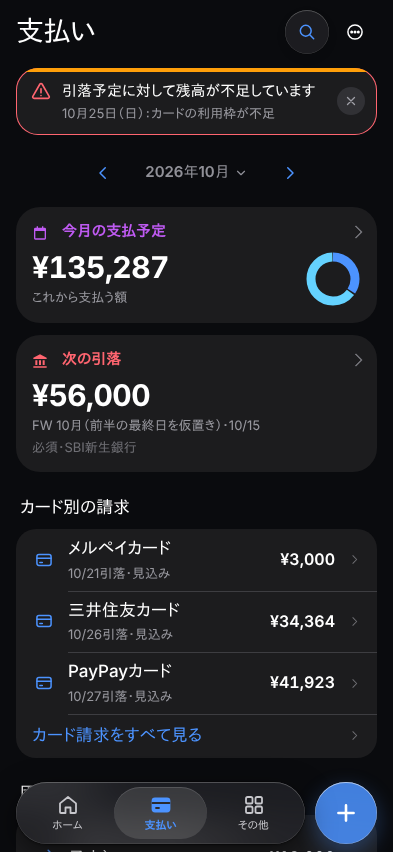
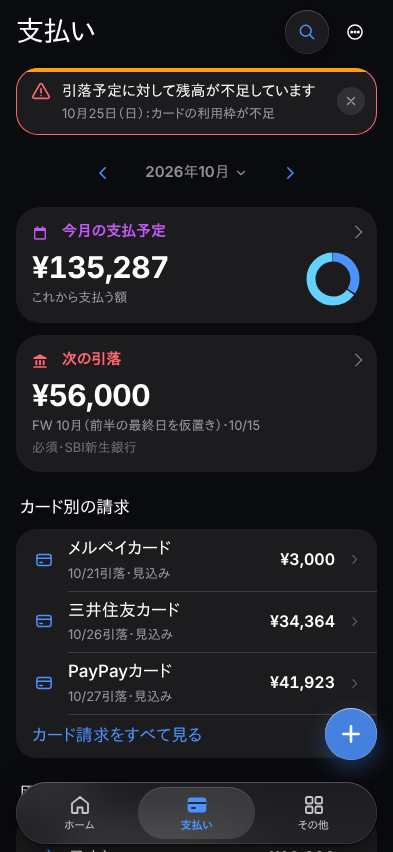
＋は第14版 Q-001（右下・タブの上・52pt）の位置と大きさに戻し、色つきガラスで仕上げる
Claude-Session: https://claude.ai/code/session_01QcLHSFmCgP6AMvjxwyHjWT

Changed region(s): [[0.7634, 0.8239, 0.9771, 1.0], [0.2748, 0.9155, 0.7023, 1.0], [0.1221, 0.9155, 0.2443, 0.9765]]

diff --git a/assets/app.80ddb2bad120.css b/assets/app.80ddb2bad120.css
@@ -2640,14 +2640,13 @@ html.dark {
 #app .screen { bottom: 0 }
 #app .screen > .scroll { padding-bottom: calc(var(--tab-h) + 28px); scroll-padding-bottom: calc(var(--tab-h) + 28px) }
 
-/* ---- タブバー: 浮いたカプセル。＋は右に並ぶ丸いガラス ---- */
+/* ---- タブバー: 浮いたカプセル。＋は第14版 Q-001 のとおり右下・タブの上の52ptの丸（色つきのガラス） ---- */
 .tabbar {
   left: max(16px, env(safe-area-inset-left));
-  right: calc(max(16px, env(safe-area-inset-right)) + var(--tabbar-height) + 10px);
+  right: max(16px, env(safe-area-inset-right));
   background: var(--lg-fill);
   box-shadow: inset 0 0 0 .5px var(--lg-stroke), inset 0 1px 0 var(--lg-stroke), 0 0 0 .5px var(--lg-rim), var(--lg-shadow);
 }
-#app:has(> #addHub[hidden]) .tabbar { right: max(16px, env(safe-area-inset-right)) }
 .tab-selection { background: rgba(120,120,128,.14); box-shadow: inset 0 1px 0 rgba(255,255,255,.7), inset 0 0 0 .5px rgba(255,255,255,.4) }
 html.dark .tab-selection { background: rgba(255,255,255,.12); box-shadow: inset 0 1px 0 rgba(255,255,255,.14) }
 .tabbar.tab-dragging .tab-selection { scale: 1.08; background: rgba(255,255,255,.55); box-shadow: inset 0 0 0 .5px rgba(255,255,255,.9), 0 6px 18px rgba(0,0,0,.12) }
@@ -2655,9 +2654,9 @@ html.dark .tabbar.tab-dragging .tab-selection { background: rgba(255,255,255,.2)
 
 .add-hub {
   right: max(16px, env(safe-area-inset-right));
-  bottom: var(--tabbar-bottom);
-  width: var(--tabbar-height);
-  height: var(--tabbar-height);
+  bottom: calc(var(--tab-h) + 12px);
+  width: 52px;
+  height: 52px;
   background: var(--lg-tint);
   box-shadow: inset 0 1px 0 rgba(255,255,255,.45), inset 0 0 0 .5px rgba(255,255,255,.35), 0 8px 22px color-mix(in srgb, var(--accent) 32%, transparent), 0 1px 3px rgba(0,0,0,.12);
   transition: transform 180ms var(--spring), box-shadow 180ms ease-out;
@@ -2794,10 +2793,10 @@ html.dark .home-card-wrap > .home-card { box-shadow: none }
 .sk-card .sk-ring { grid-row: 2 / span 2; grid-column: 2; width: 52px; height: 52px; border-radius: 50%; border: 9px solid var(--sk-base); border-top-color: color-mix(in srgb, var(--sk-c, var(--accent)) 45%, transparent) }
 .sk { display: block; background: var(--sk-base); background-image: linear-gradient(100deg, transparent 20%, var(--sk-shine) 50%, transparent 80%); background-size: 220% 100%; background-repeat: no-repeat; animation: skeletonShimmer 1.4s ease-in-out infinite }
 @keyframes skeletonShimmer { from { background-position: 160% 0 } to { background-position: -60% 0 } }
-.boot-tabbar { position: fixed; left: 16px; right: calc(16px + var(--tabbar-height) + 10px); bottom: var(--tabbar-bottom); height: var(--tabbar-height); border-radius: 999px; background: var(--lg-fill); box-shadow: inset 0 0 0 .5px var(--lg-stroke), 0 0 0 .5px var(--lg-rim), var(--lg-shadow); display: flex; align-items: center; justify-content: space-around; -webkit-backdrop-filter: var(--lg-blur); backdrop-filter: var(--lg-blur) }
+.boot-tabbar { position: fixed; left: 16px; right: 16px; bottom: var(--tabbar-bottom); height: var(--tabbar-height); border-radius: 999px; background: var(--lg-fill); box-shadow: inset 0 0 0 .5px var(--lg-stroke), 0 0 0 .5px var(--lg-rim), var(--lg-shadow); display: flex; align-items: center; justify-content: space-around; -webkit-backdrop-filter: var(--lg-blur); backdrop-filter: var(--lg-blur) }
 .boot-tabbar i { width: 24px; height: 24px; border-radius: 7px; background: var(--sk-base) }
-.boot-hub { position: fixed; right: 16px; bottom: var(--tabbar-bottom); width: var(--tabbar-height); height: var(--tabbar-height); border-radius: 50%; background: var(--lg-tint); opacity: .55 }
-.boot-status { position: fixed; left: 50%; bottom: calc(var(--tab-h) + 18px); transform: translateX(-50%); display: flex; align-items: center; gap: 12px; max-width: calc(100% - 32px); padding: 10px 18px 10px 14px; border-radius: 999px; background: var(--lg-fill-strong); box-shadow: inset 0 0 0 .5px var(--lg-stroke), 0 0 0 .5px var(--lg-rim), var(--lg-shadow); -webkit-backdrop-filter: var(--lg-blur); backdrop-filter: var(--lg-blur); animation: bootStatusIn .3s var(--spring) both }
+.boot-hub { position: fixed; right: 16px; bottom: calc(var(--tab-h) + 12px); width: 52px; height: 52px; border-radius: 50%; background: var(--lg-tint); opacity: .55 }
+.boot-status { position: fixed; left: 50%; bottom: calc(var(--tab-h) + 80px); transform: translateX(-50%); display: flex; align-items: center; gap: 12px; max-width: calc(100% - 32px); padding: 10px 18px 10px 14px; border-radius: 999px; background: var(--lg-fill-strong); box-shadow: inset 0 0 0 .5px var(--lg-stroke), 0 0 0 .5px var(--lg-rim), var(--lg-shadow); -webkit-backdrop-filter: var(--lg-blur); backdrop-filter: var(--lg-blur); animation: bootStatusIn .3s var(--spring) both }
 .boot-status { width: max-content }
 .boot-status .busy-title { font-size: 14px; font-weight: 600; line-height: 1.35; white-space: nowrap }
 .boot-status .busy-sub { white-space: nowrap; overflow: hidden; text-overflow: ellipsis }

diff --git a/src/css/liquid-glass.css b/src/css/liquid-glass.css
@@ -48,14 +48,13 @@ html.dark {
 #app .screen { bottom: 0 }
 #app .screen > .scroll { padding-bottom: calc(var(--tab-h) + 28px); scroll-padding-bottom: calc(var(--tab-h) + 28px) }
 
-/* ---- タブバー: 浮いたカプセル。＋は右に並ぶ丸いガラス ---- */
+/* ---- タブバー: 浮いたカプセル。＋は第14版 Q-001 のとおり右下・タブの上の52ptの丸（色つきのガラス） ---- */
 .tabbar {
   left: max(16px, env(safe-area-inset-left));
-  right: calc(max(16px, env(safe-area-inset-right)) + var(--tabbar-height) + 10px);
+  right: max(16px, env(safe-area-inset-right));
   background: var(--lg-fill);
   box-shadow: inset 0 0 0 .5px var(--lg-stroke), inset 0 1px 0 var(--lg-stroke), 0 0 0 .5px var(--lg-rim), var(--lg-shadow);
 }
-#app:has(> #addHub[hidden]) .tabbar { right: max(16px, env(safe-area-inset-right)) }
 .tab-selection { background: rgba(120,120,128,.14); box-shadow: inset 0 1px 0 rgba(255,255,255,.7), inset 0 0 0 .5px rgba(255,255,255,.4) }
 html.dark .tab-selection { background: rgba(255,255,255,.12); box-shadow: inset 0 1px 0 rgba(255,255,255,.14) }
 .tabbar.tab-dragging .tab-selection { scale: 1.08; background: rgba(255,255,255,.55); box-shadow: inset 0 0 0 .5px rgba(255,255,255,.9), 0 6px 18px rgba(0,0,0,.12) }
@@ -63,9 +62,9 @@ html.dark .tabbar.tab-dragging .tab-selection { background: rgba(255,255,255,.2)
 
 .add-hub {
   right: max(16px, env(safe-area-inset-right));
-  bottom: var(--tabbar-bottom);
-  width: var(--tabbar-height);
-  height: var(--tabbar-height);
+  bottom: calc(var(--tab-h) + 12px);
+  width: 52px;
+  height: 52px;
   background: var(--lg-tint);
   box-shadow: inset 0 1px 0 rgba(255,255,255,.45), inset 0 0 0 .5px rgba(255,255,255,.35), 0 8px 22px color-mix(in srgb, var(--accent) 32%, transparent), 0 1px 3px rgba(0,0,0,.12);
   transition: transform 180ms var(--spring), box-shadow 180ms ease-out;
@@ -202,10 +201,10 @@ html.dark .home-card-wrap > .home-card { box-shadow: none }
 .sk-card .sk-ring { grid-row: 2 / span 2; grid-column: 2; width: 52px; height: 52px; border-radius: 50%; border: 9px solid var(--sk-base); border-top-color: color-mix(in srgb, var(--sk-c, var(--accent)) 45%, transparent) }
 .sk { display: block; background: var(--sk-base); background-image: linear-gradient(100deg, transparent 20%, var(--sk-shine) 50%, transparent 80%); background-size: 220% 100%; background-repeat: no-repeat; animation: skeletonShimmer 1.4s ease-in-out infinite }
 @keyframes skeletonShimmer { from { background-position: 160% 0 } to { background-position: -60% 0 } }
-.boot-tabbar { position: fixed; left: 16px; right: calc(16px + var(--tabbar-height) + 10px); bottom: var(--tabbar-bottom); height: var(--tabbar-height); border-radius: 999px; background: var(--lg-fill); box-shadow: inset 0 0 0 .5px var(--lg-stroke), 0 0 0 .5px var(--lg-rim), var(--lg-shadow); display: flex; align-items: center; justify-content: space-around; -webkit-backdrop-filter: var(--lg-blur); backdrop-filter: var(--lg-blur) }
+.boot-tabbar { position: fixed; left: 16px; right: 16px; bottom: var(--tabbar-bottom); height: var(--tabbar-height); border-radius: 999px; background: var(--lg-fill); box-shadow: inset 0 0 0 .5px var(--lg-stroke), 0 0 0 .5px var(--lg-rim), var(--lg-shadow); display: flex; align-items: center; justify-content: space-around; -webkit-backdrop-filter: var(--lg-blur); backdrop-filter: var(--lg-blur) }
 .boot-tabbar i { width: 24px; height: 24px; border-radius: 7px; background: var(--sk-base) }
-.boot-hub { position: fixed; right: 16px; bottom: var(--tabbar-bottom); width: var(--tabbar-height); height: var(--tabbar-height); border-radius: 50%; background: var(--lg-tint); opacity: .55 }
-.boot-status { position: fixed; left: 50%; bottom: calc(var(--tab-h) + 18px); transform: translateX(-50%); display: flex; align-items: center; gap: 12px; max-width: calc(100% - 32px); padding: 10px 18px 10px 14px; border-radius: 999px; background: var(--lg-fill-strong); box-shadow: inset 0 0 0 .5px var(--lg-stroke), 0 0 0 .5px var(--lg-rim), var(--lg-shadow); -webkit-backdrop-filter: var(--lg-blur); backdrop-filter: var(--lg-blur); animation: bootStatusIn .3s var(--spring) both }
+.boot-hub { position: fixed; right: 16px; bottom: calc(var(--tab-h) + 12px); width: 52px; height: 52px; border-radius: 50%; background: var(--lg-tint); opacity: .55 }
+.boot-status { position: fixed; left: 50%; bottom: calc(var(--tab-h) + 80px); transform: translateX(-50%); display: flex; align-items: center; gap: 12px; max-width: calc(100% - 32px); padding: 10px 18px 10px 14px; border-radius: 999px; background: var(--lg-fill-strong); box-shadow: inset 0 0 0 .5px var(--lg-stroke), 0 0 0 .5px var(--lg-rim), var(--lg-shadow); -webkit-backdrop-filter: var(--lg-blur); backdrop-filter: var(--lg-blur); animation: bootStatusIn .3s var(--spring) both }
 .boot-status { width: max-content }
 .boot-status .busy-title { font-size: 14px; font-weight: 600; line-height: 1.35; white-space: nowrap }
 .boot-status .busy-sub { white-space: nowrap; overflow: hidden; text-overflow: ellipsis }

diff --git a/index.html b/index.html
@@ -12,7 +12,7 @@
 <link rel="manifest" href="./manifest.webmanifest">
 <link rel="apple-touch-icon" href="./icons/app-192.png?v=wallet-20261110">
 <link rel="icon" type="image/png" href="./icons/app-192.png?v=wallet-20261110">
-<link rel="stylesheet" href="./assets/app.38a9226d426c.css">
+<link rel="stylesheet" href="./assets/app.80ddb2bad120.css">
 <script src="https://accounts.google.com/gsi/client" async defer></script>
 </head>
 <body>

diff --git a/docs/design/liquid-glass.md b/docs/design/liquid-glass.md
@@ -21,7 +21,7 @@
 
 | # | 反映 | 実装 |
 |---|---|---|
-| 1 | タブバーを左寄せのカプセルにし、＋入力ハブを右隣の同じ高さの丸いガラス（青の色つき）へ。内容はタブバーの下までスクロールし、ガラス越しに透ける | `.tabbar`・`.add-hub`・`#app .screen { bottom: 0 }` |
+| 1 | タブバーは浮いたガラスのカプセル。内容はタブバーの下までスクロールし、ガラス越しに透ける。＋は第14版 Q-001（画面右下・タブの上・48〜52pt）を優先して位置と大きさを変えず、青の色つきガラスに。動画のようにタブバーの右隣へ並べる案は Q-001 と食い違うため採らない | `.tabbar`・`.add-hub`・`#app .screen { bottom: 0 }` |
 | 2 | 少しスクロールすると上端がぼかしのガラスになり、境界線の代わりにぼかしで内容となじませる。見出しの高さ分スクロールすると大見出しが消え、中央に小見出しが出る | `24-accessibility.js` の `syncScrolled`（`native-scrolled`／`lg-collapsed`、`data-compact-title`） |
 | 3 | ホームの上部だけ青・水色・紫の淡いにじみ。スクロールで消える | `#screen-today::before` |
 | 4 | 専用画面（今日の支出・給与など）とpush画面の戻るを丸いガラスの ‹ に。見出しは中央。読み上げ名（「ホームに戻る」など）は従来どおり | `.detail-back`・`.push-nav .back-btn` |
